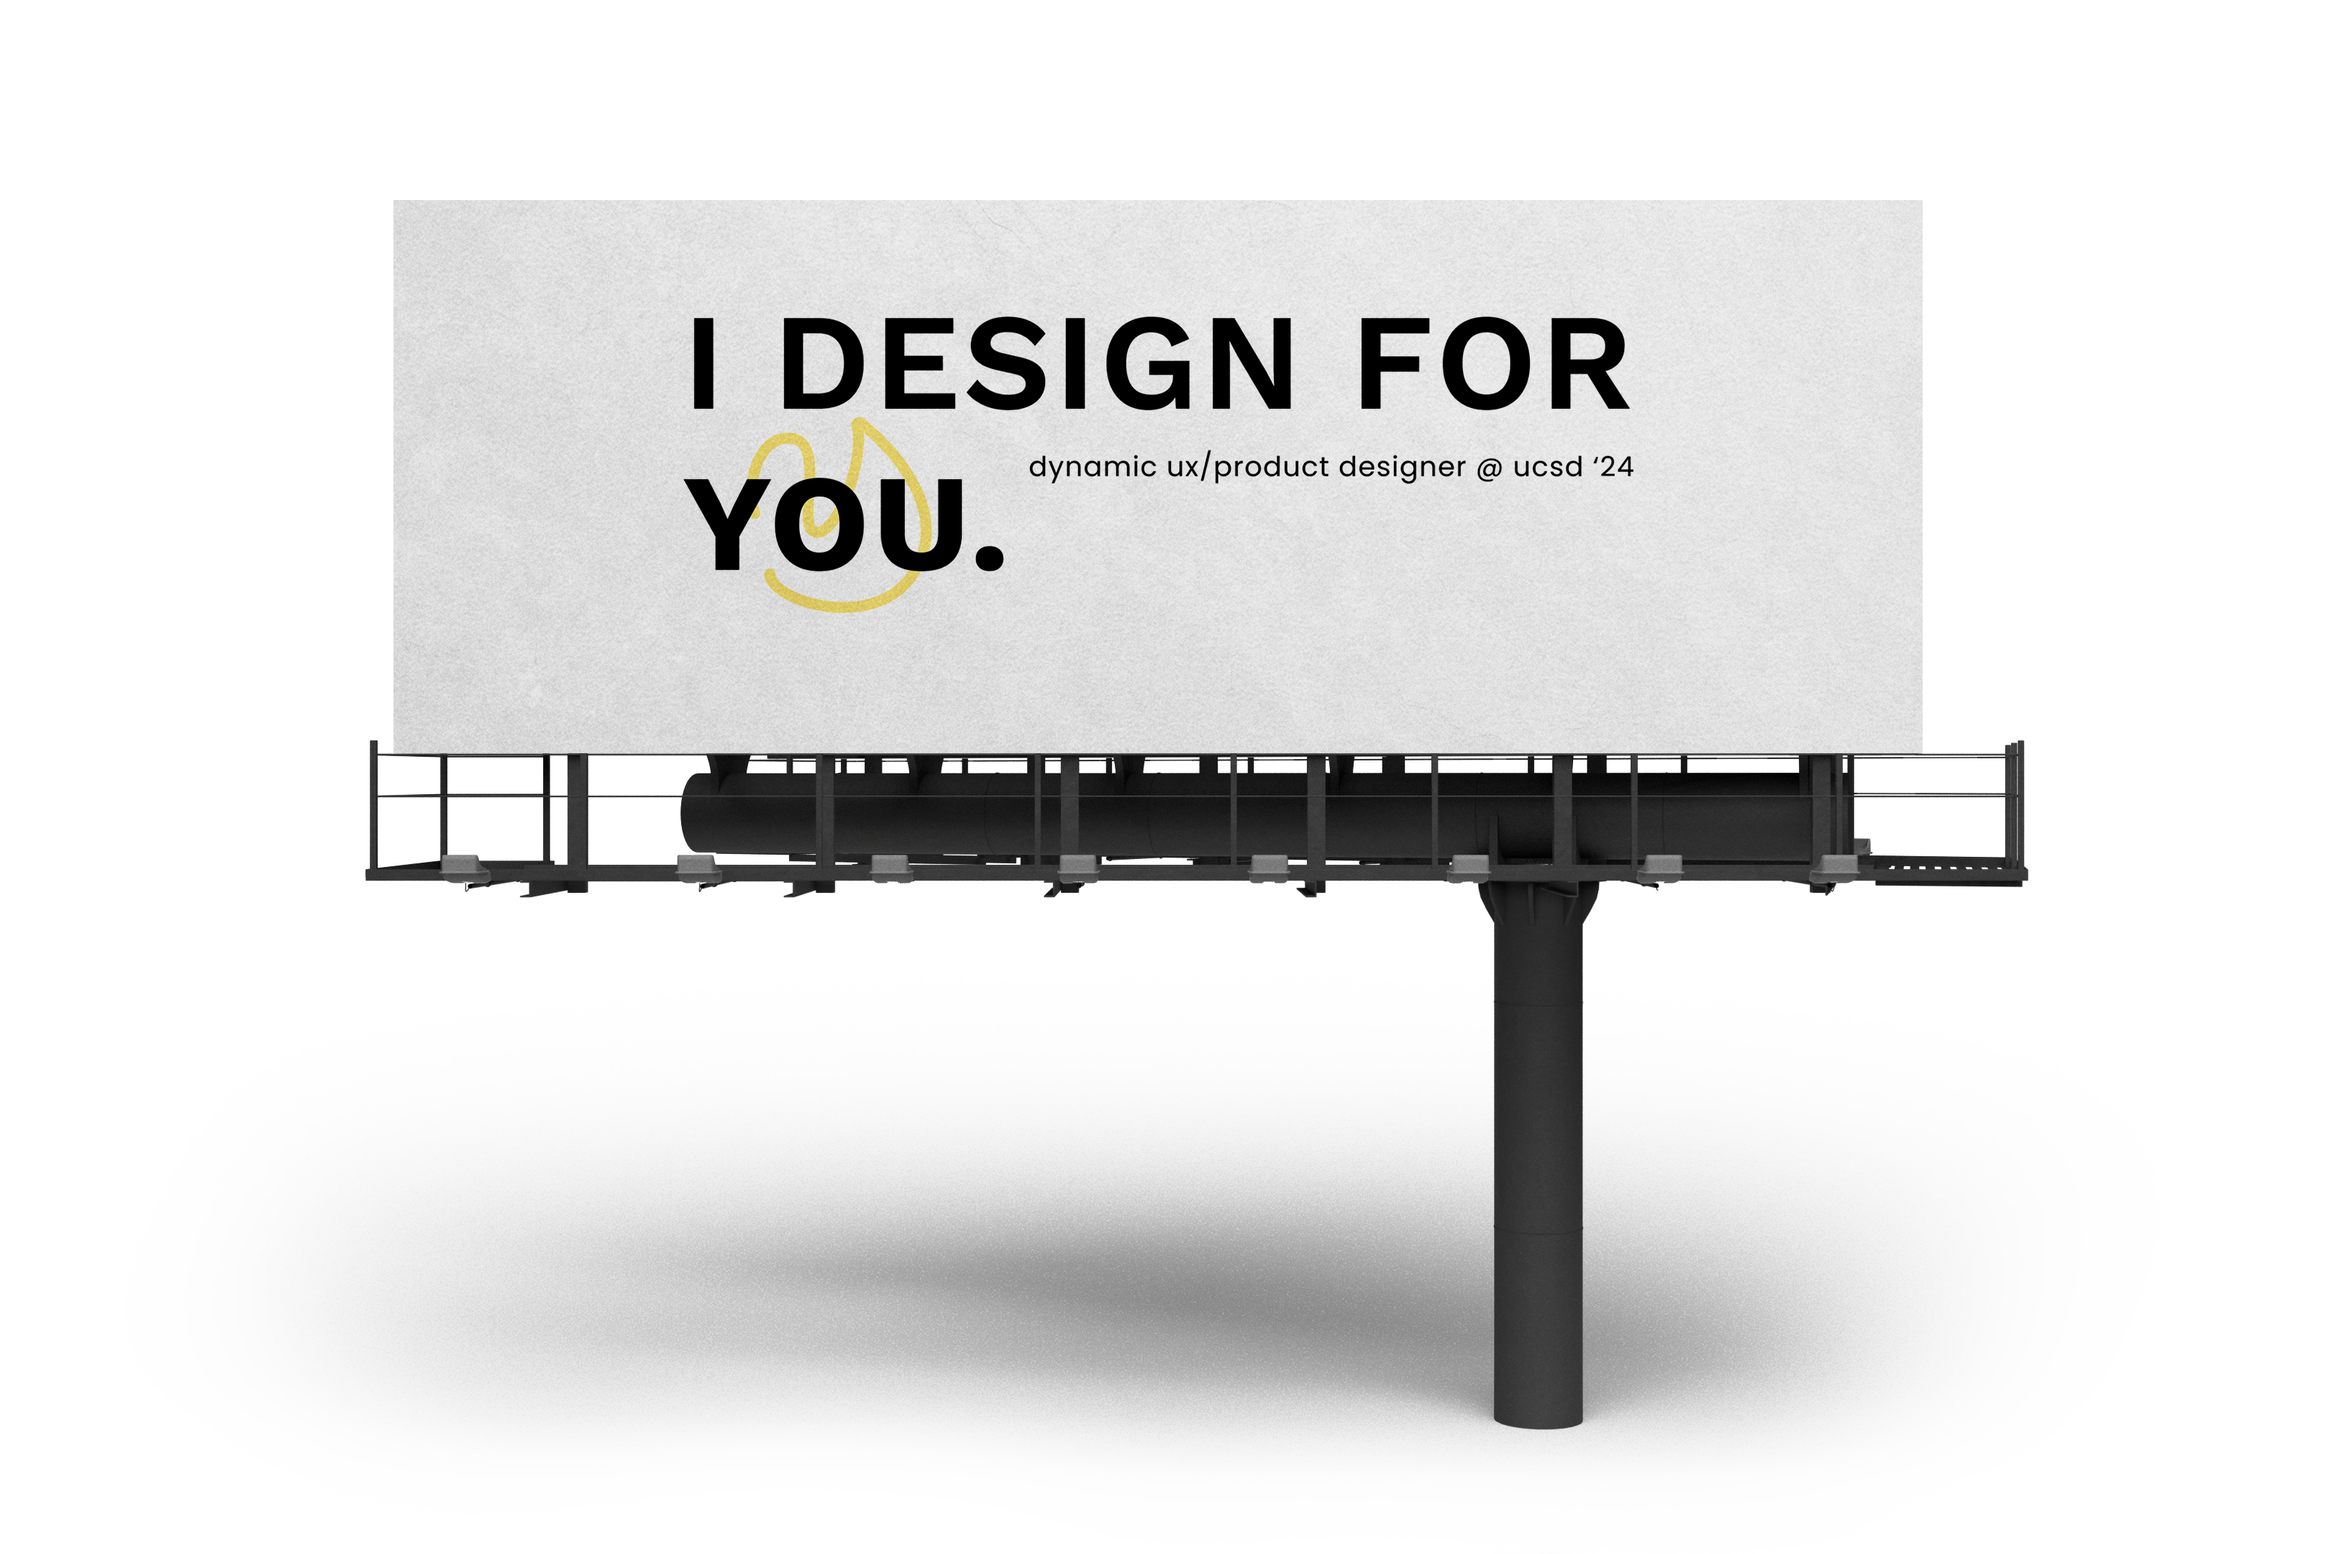
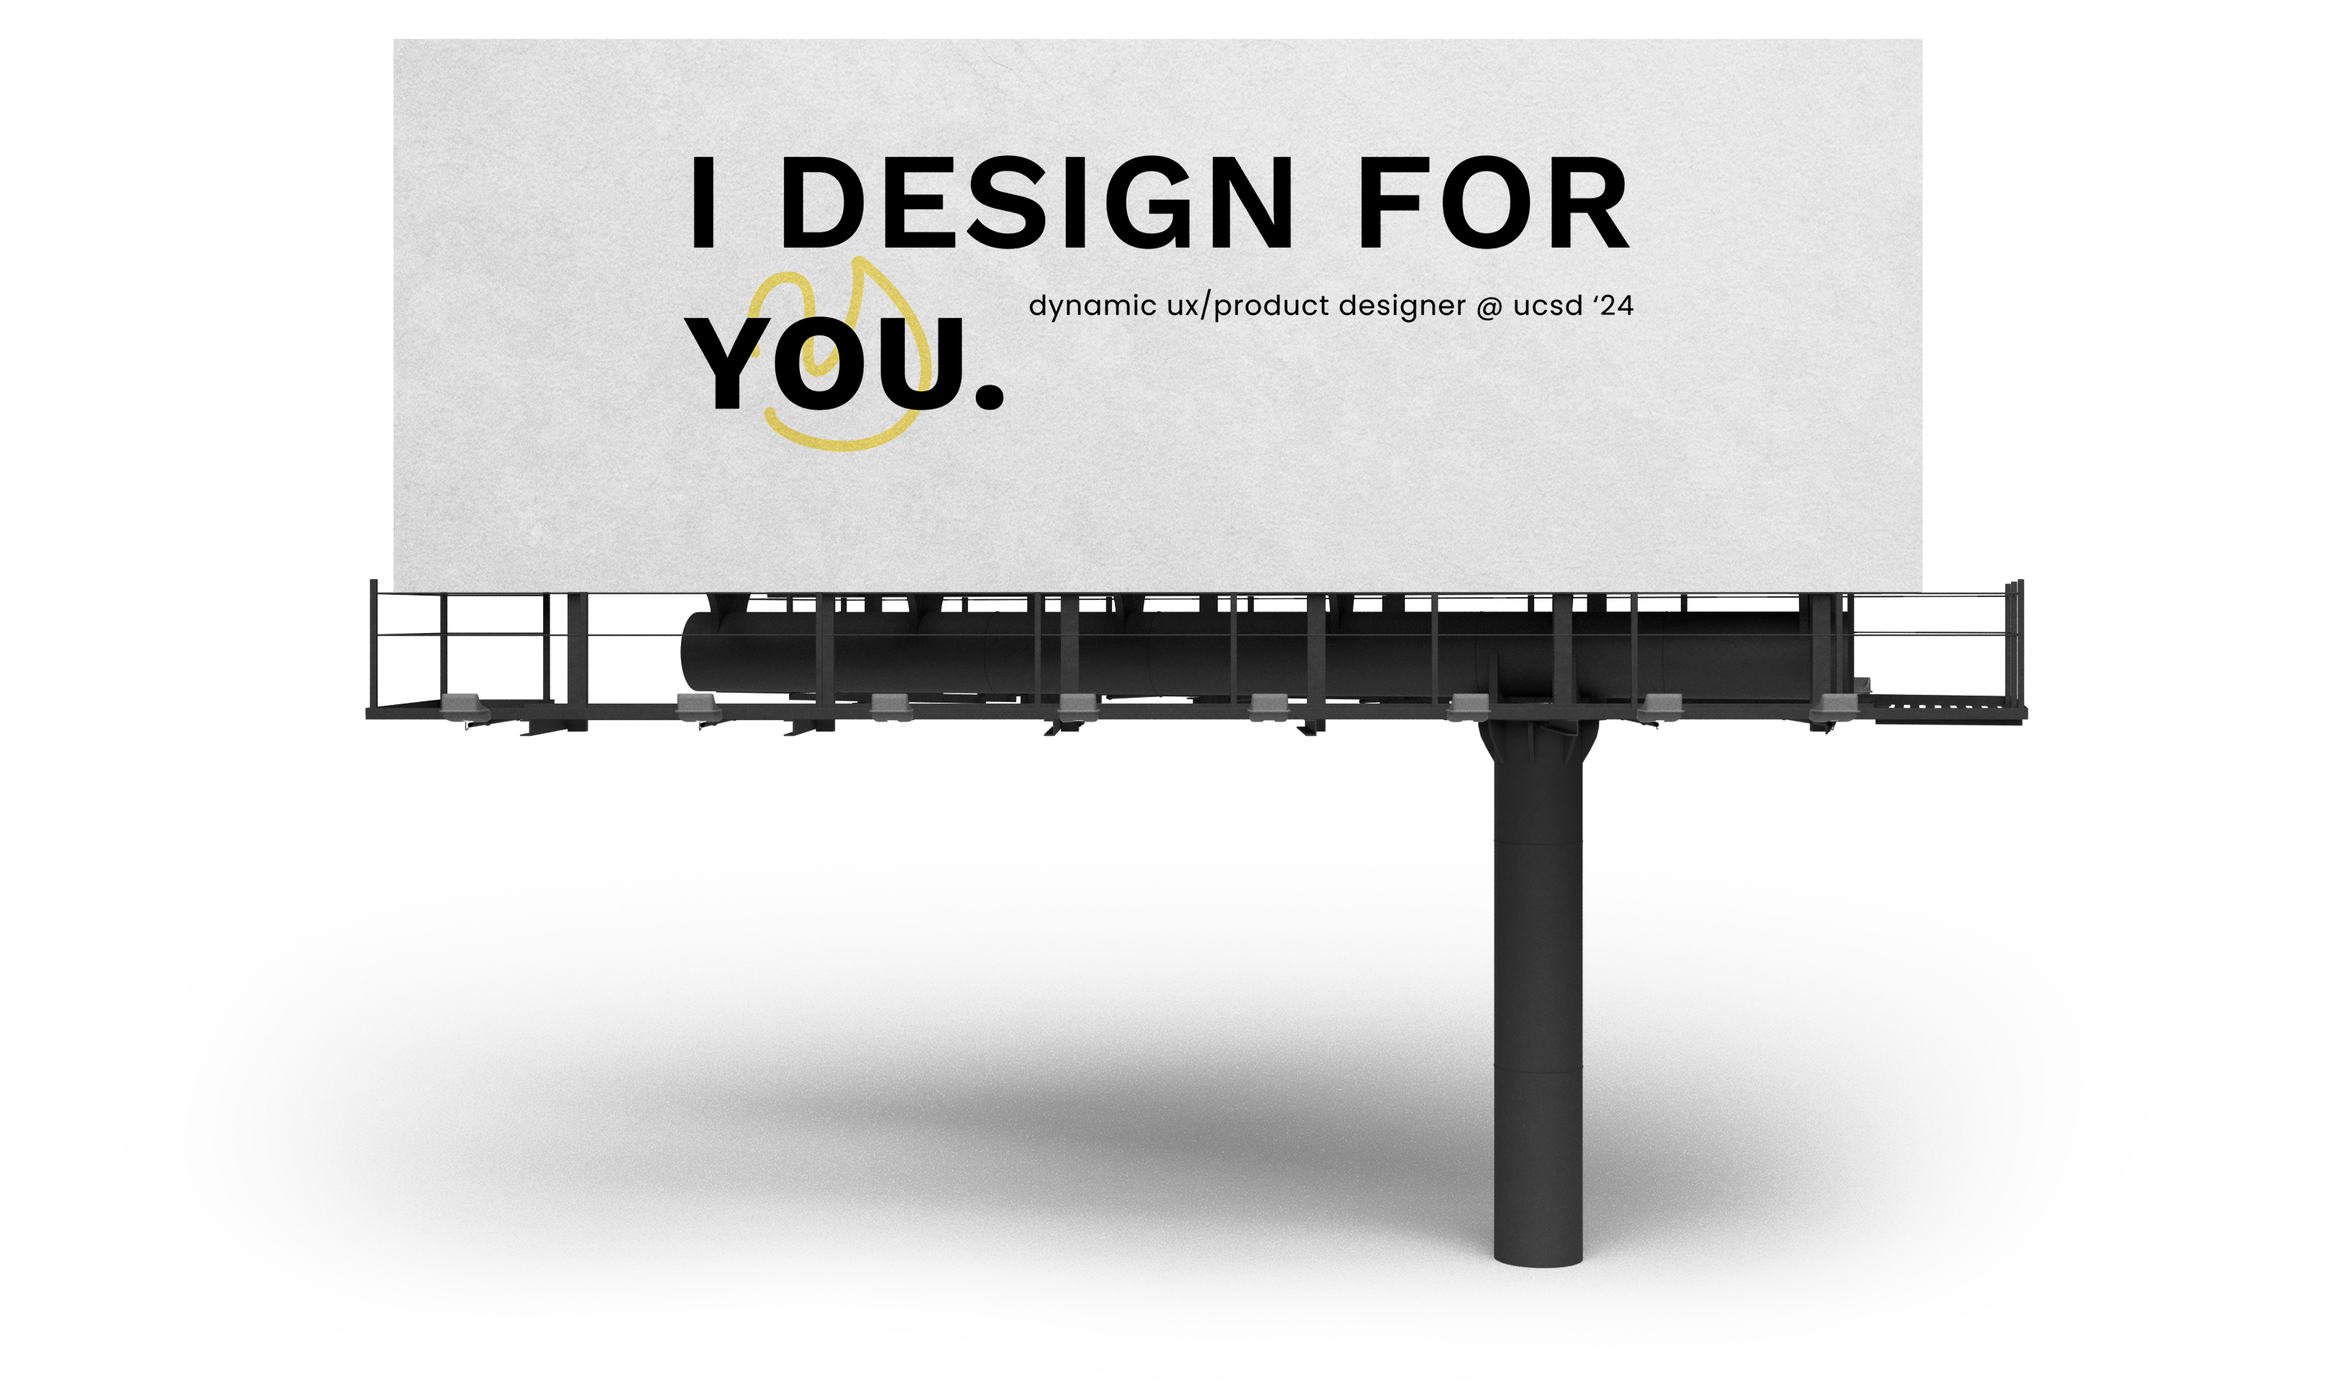
hero section & about update

Changed region(s): [[0.156, 0.0312, 0.8734, 0.5925], [0.3431, 0.7484, 0.6238, 0.8108], [0.6238, 0.9044, 0.6862, 0.9356]]

diff --git a/css/styles.css b/css/styles.css
@@ -154,9 +154,14 @@ p{
 .hero{
     padding: 4% 0 10% 0;
 }
-
+.hero-centered {
+    display: flex;
+    flex-direction: column;
+    align-items: center;
+    justify-content: center;
+  }
 .lessSpace{
-    margin-top: -100px;
+    margin-top: -110px;
 }
 
 .vamos{
@@ -281,7 +286,7 @@ p{
 
 
 .navbar{
-    padding: 4% 10% 4% 10%;
+    padding: 4% 10% 2% 10%;
 }
 .nav-bar-link{
     padding:0 20px 0px 20px;
@@ -377,7 +382,7 @@ p{
 /* Hero Section */
 #title{
     /* change top padding to 3% when have 4 link navbar */
-    padding: 0% 10% 8% 10%;
+    padding: 5% 10% 10% 10%;
     text-align: center;
     position: relative; top: 0px;
 }
@@ -451,17 +456,17 @@ p{
 
 .project-card1:hover{
     text-decoration: none;
-    background-color:#E0E9FF;
+    background-color:#cfddff;
 }
 
 .project-card2:hover{
     text-decoration: none;
-    background-color:#E7F5F5;
+    background-color:#dcffff;
 }
 
 .project-card3:hover{
     text-decoration: none;
-    background-color:#fcd4fc;
+    background-color:#ffcaff;
 }
 
 
@@ -704,14 +709,9 @@ main {
 
 /* About Page */
 
-#about-1{
-    padding: 0% 15% 4% 15%;
-    text-align: justify;
-    
-}
 
 #about{
-    padding: 4% 15%;
+    padding: 4% 10%;
     text-align: justify;
     
 }
@@ -896,7 +896,7 @@ footer {
 
 @media (max-width:600px){ 
     #title{
-        padding: 12% 0% 12% 0%;
+        padding: 8% 0% 12% 0%;
         text-align: center;
     }
     .icons{
@@ -911,6 +911,22 @@ footer {
     }
     .smaller-text{
         font-size: 15px;
+    }
+    .smaller-body{
+        font-size: 14px;
+    }
+
+    .nav-name{
+        flex-grow: 0;
+        font-family: 'Work Sans';
+        font-size: 15px;
+        font-weight: 500;
+        font-stretch: normal;
+        font-style: normal;
+        line-height: 8px;
+        letter-spacing: 0.05em;
+        text-align: left;
+        color: #000; 
     }
     .p-footer4{
         text-align: center;
@@ -1069,7 +1085,6 @@ footer {
     */
     #title{
         text-align: center;
-        position: relative; top:  -20px;
     }
 
 

diff --git a/index.html b/index.html
@@ -57,7 +57,7 @@
       <a class="nav-name-logo" href="index.html">
         <div style="display: flex; align-items: center;">
           <div>
-            <img src="images/MD-logo.png" width="50px" height="50px" class="move-up"> 
+            <img class="nav-logo move-up" src="images/MD-logo.png" width="50px" height="50px" > 
           </div>
           <div style="text-align: center; margin-left: 10px;">
             <p class="nav-name">DANIELA ACOSTA</p>
@@ -104,8 +104,11 @@
     </ul>
   </div>
 
+  <div class="hero-centered">
+    <h1>I DESIGN FOR <i><b>YOU.</b></i></h1>  
+    <img src="images/bm 2.png" width="100%">
+  </div>
   
-  <img src="images/bm.png" width="100%">
 
   <!-- Old Hero Section 
   <div class="row">
@@ -123,7 +126,7 @@
 
    -->
   <a href="#projects">
-    <div class="lessSpace vamosScroll">
+    <div class="lessSpace vamosScroll d-none d-lg-block">
       <div class="vamos">
         <p class="workSans">VAMOS!</p>
       </div>
@@ -311,7 +314,7 @@
   <!-- CTA -->
   <section id="cta">
     <div class="">
-      <p class="">Want something featured on my billboard or just want to chat?</p>
+      <p class="">Have a design idea for my billboard or just want to chat?</p>
       <a class="decorColor" href="https://www.linkedin.com/in/martadaniela/"><h3>MDACOSTA@UCSD.EDU</h3><iconify-icon icon="ph:arrow-up-right"></iconify-icon></a>
     </div>
   </section>

diff --git a/about.html b/about.html
@@ -101,7 +101,7 @@
     </section>
 
 
-    <section id="about-1">
+    <section id="about">
       <div class="">
         <h1>HOLA!</h1>
       </div>
@@ -128,6 +128,13 @@
     </section>
 
 
+    <section id="about">
+      <h3>MY BRAND: EXPLAINED</h3>
+      <p>I originally asked my friends and family this question to help me ideate portfolio designs. I thought their responses might help you get to know me better!</p>
+      <div class="centered">
+        <img src="images/">
+      </div>
+    </section>
 
 
     <section id="about">
@@ -136,7 +143,7 @@
       <div class="row">
         <div class="col-lg-6">
           <div>
-            <h6>IF I WERE A COLOR</h6>
+            <h6>WHY THE BILLBOARD?</h6>
             <img class="about-me-pic" src="images/About/logo-explained.png">
           </div>
         </div>
